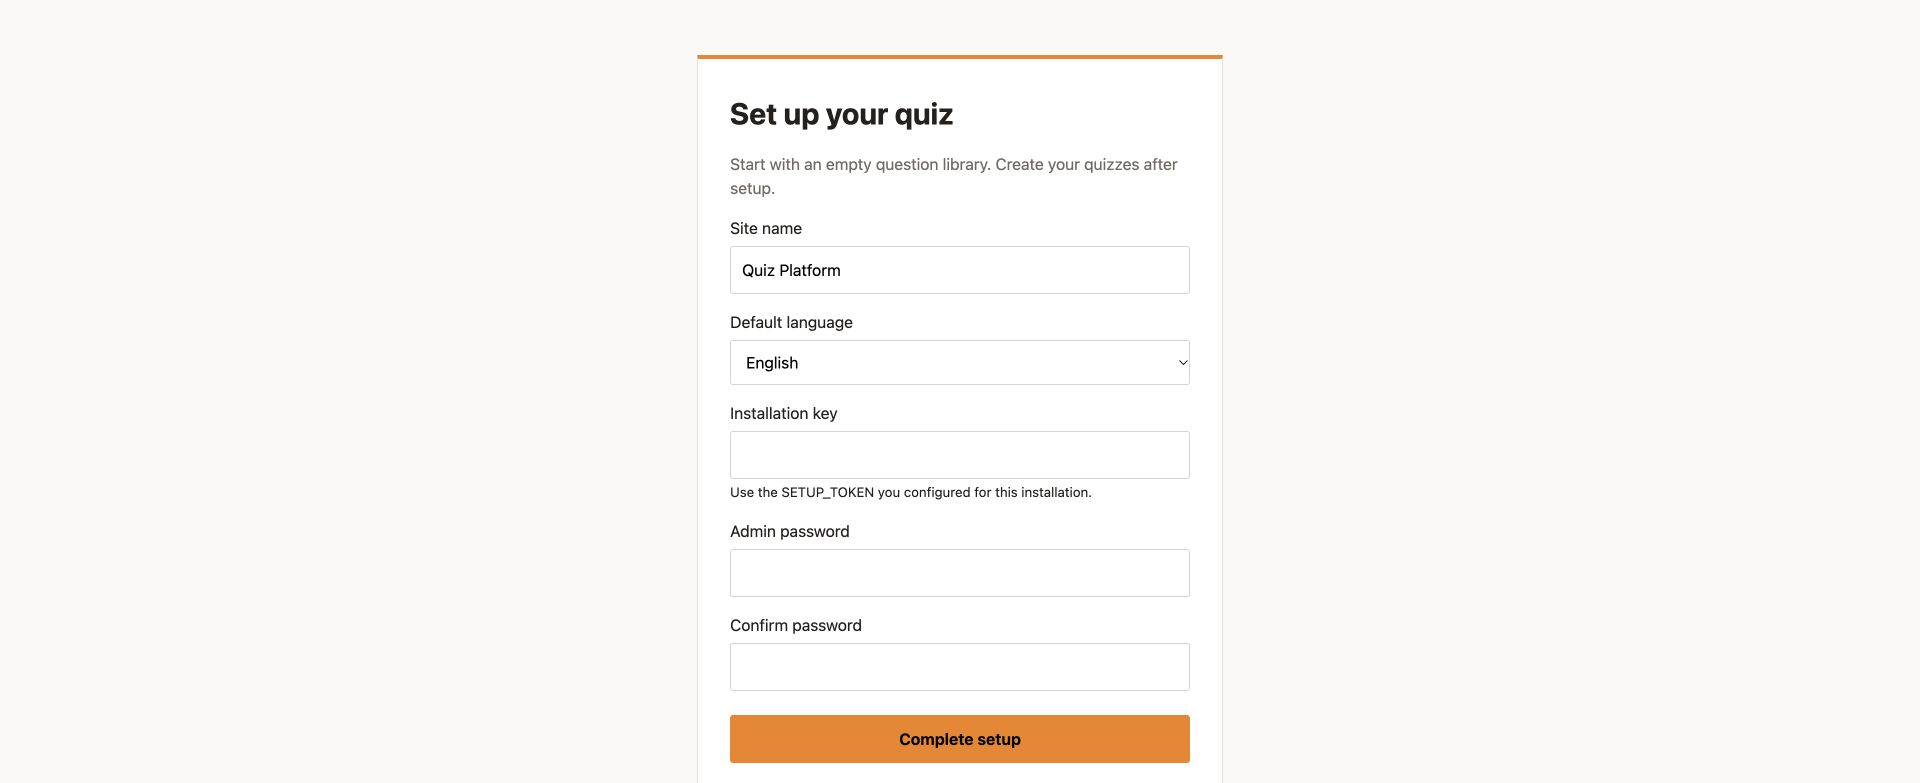
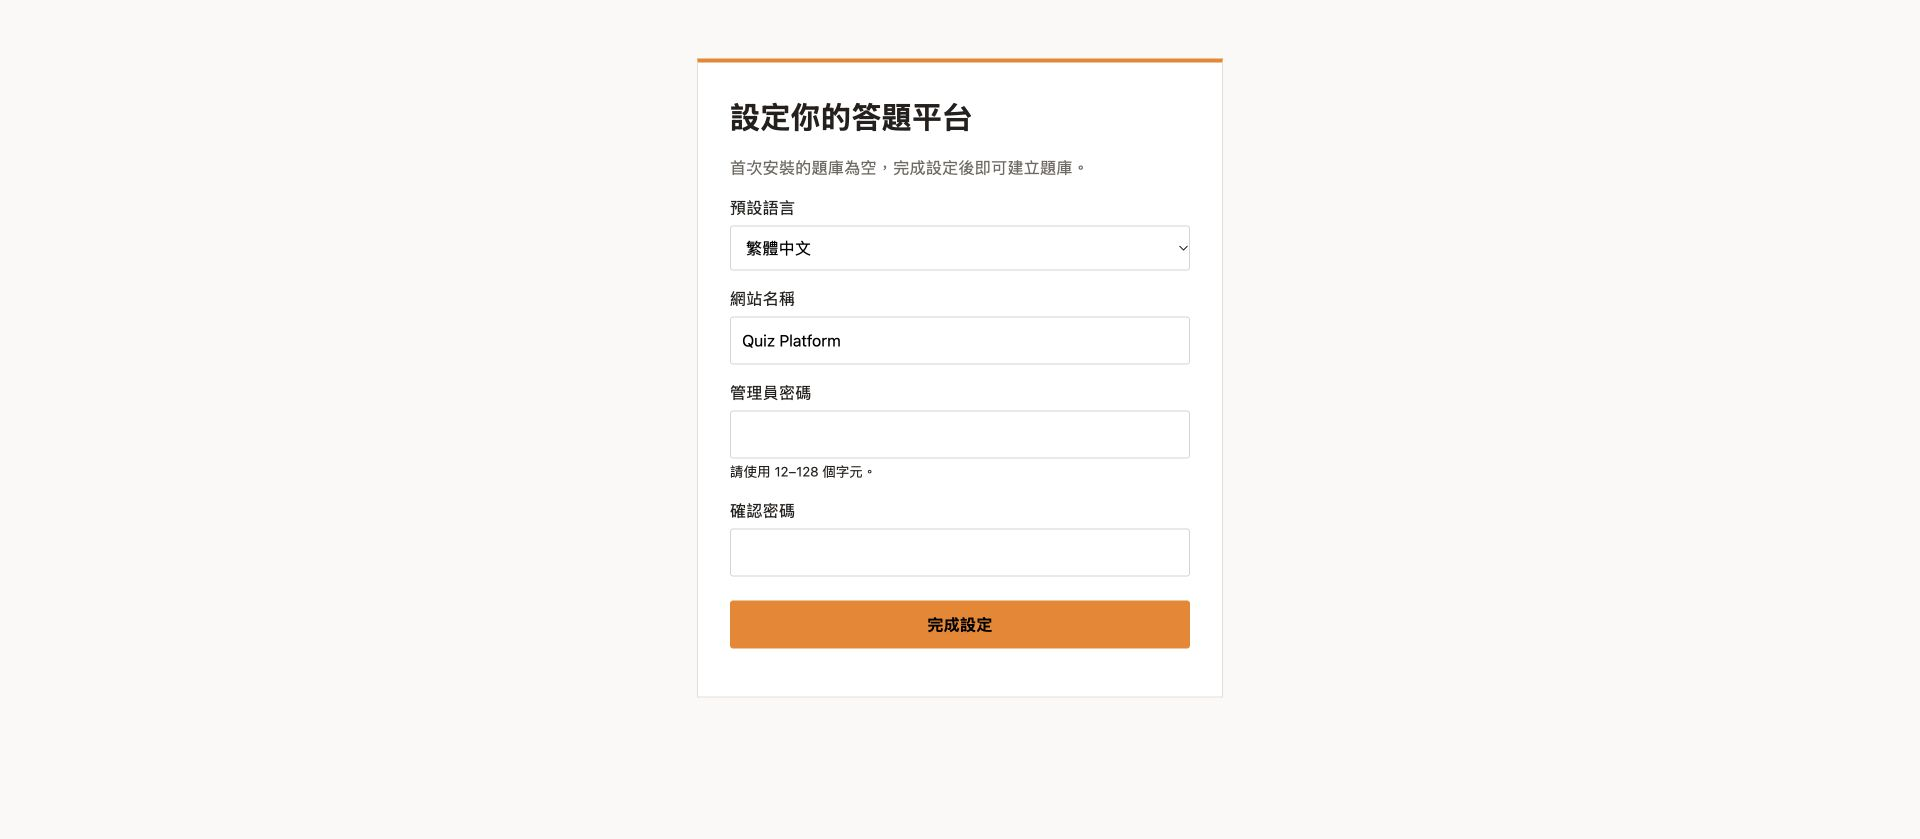
Add Traditional Chinese and simplify first-run setup

diff --git a/src/setup.html b/src/setup.html
@@ -1,5 +1,13 @@
-<!doctype html><html lang="en"><head><meta charset="utf-8"><meta name="viewport" content="width=device-width,initial-scale=1"><title>Set up Quiz Platform</title><style>body{margin:0;background:#faf9f7;color:#24201d;font:16px/1.5 system-ui}main{max-width:460px;margin:7vh auto;padding:32px;background:#fff;border:1px solid #e3dfd9;border-top:4px solid #f48120}h1{font-size:30px;margin:0}p{color:#706a63}label{display:block;margin:16px 0 6px}input,select,button{font:inherit;box-sizing:border-box;width:100%;padding:11px;border:1px solid #d9d4ce;border-radius:3px}button{margin-top:24px;background:#f48120;border-color:#f48120;cursor:pointer;font-weight:650}#status{color:#b42318}@media(max-width:520px){main{margin:24px 14px;padding:24px}}</style></head><body><main><h1>Set up your quiz</h1><p>Start with an empty question library. Create your quizzes after setup.</p><form id="setup"><label for="siteName">Site name</label><input id="siteName" name="siteName" maxlength="80" required value="Quiz Platform"><label for="language">Default language</label><select id="language" name="language"><option value="en">English</option><option value="zh-CN">简体中文</option></select><label for="setupKey">Installation key</label><input id="setupKey" name="setupKey" type="password" autocomplete="off" required><small>Use the SETUP_TOKEN you configured for this installation.</small><label for="password">Admin password</label><input id="password" name="password" type="password" autocomplete="new-password" minlength="12" maxlength="128" required><label for="confirm">Confirm password</label><input id="confirm" type="password" autocomplete="new-password" minlength="12" maxlength="128" required><button>Complete setup</button></form><p id="status" role="status"></p></main><script>
-const form=document.getElementById('setup'),status=document.getElementById('status');
-fetch('/api/site').then(r=>r.json()).then(data=>{if(data.configured){location.replace('/admin');return;}if(!data.setupKeyConfigured){status.textContent='The installer must configure the SETUP_TOKEN deployment secret first.';form.querySelector('button').disabled=true;}}).catch(()=>{status.textContent='Unable to reach the server.';});
-form.addEventListener('submit',async event=>{event.preventDefault();if(form.password.value!==document.getElementById('confirm').value){status.textContent='Passwords do not match.';return;}const button=form.querySelector('button');button.disabled=true;try{const response=await fetch('/api/setup',{method:'POST',headers:{'Content-Type':'application/json'},body:JSON.stringify(Object.fromEntries(new FormData(form)))});const data=await response.json();if(!response.ok)throw Error(data.error||'Setup failed');location.replace('/admin');}catch(error){status.textContent=error.message;button.disabled=false;}});
+<!doctype html><html lang="en"><head><meta charset="utf-8"><meta name="viewport" content="width=device-width,initial-scale=1"><title>Set up Quiz Platform</title><style>body{margin:0;background:#faf9f7;color:#24201d;font:16px/1.5 system-ui}main{max-width:460px;margin:7vh auto;padding:32px;background:#fff;border:1px solid #e3dfd9;border-top:4px solid #f48120}h1{font-size:30px;margin:0}p{color:#706a63}label{display:block;margin:16px 0 6px}input,select,button{font:inherit;box-sizing:border-box;width:100%;padding:11px;border:1px solid #d9d4ce;border-radius:3px}button{margin-top:24px;background:#f48120;border-color:#f48120;cursor:pointer;font-weight:650}#status{color:#b42318}@media(max-width:520px){main{margin:24px 14px;padding:24px}}</style></head><body><main><h1 data-copy="title">Set up your quiz</h1><p data-copy="intro">Start with an empty question library. Create your quizzes after setup.</p><form id="setup"><label for="language" data-copy="language">Default language</label><select id="language" name="language"><option value="en">English</option><option value="zh-CN">简体中文</option><option value="zh-TW">繁體中文</option></select><label for="siteName" data-copy="siteName">Site name</label><input id="siteName" name="siteName" maxlength="80" required value="Quiz Platform"><label for="password" data-copy="password">Admin password</label><input id="password" name="password" type="password" autocomplete="new-password" minlength="12" maxlength="128" required><small data-copy="passwordHelp">Use 12–128 characters.</small><label for="confirm" data-copy="confirm">Confirm password</label><input id="confirm" type="password" autocomplete="new-password" minlength="12" maxlength="128" required><button data-copy="complete">Complete setup</button></form><p id="status" role="status"></p></main><script>
+const form=document.getElementById('setup'),status=document.getElementById('status'),language=document.getElementById('language');
+const messages={
+ en:{title:'Set up your quiz',intro:'Start with an empty question library. Create your quizzes after setup.',language:'Default language',siteName:'Site name',password:'Admin password',passwordHelp:'Use 12–128 characters.',confirm:'Confirm password',complete:'Complete setup',mismatch:'Passwords do not match.',unavailable:'Unable to reach the server.',failed:'Setup failed. Please try again.',invalid:'Enter a site name (1–80 characters) and a password of 12–128 characters.',limited:'Too many attempts. Try again in 15 minutes.',completed:'Setup is already complete. Please sign in.'},
+ 'zh-CN':{title:'设置你的答题平台',intro:'首次安装的题库为空，完成设置后即可创建题库。',language:'默认语言',siteName:'网站名称',password:'管理员密码',passwordHelp:'请使用 12–128 个字符。',confirm:'确认密码',complete:'完成设置',mismatch:'两次输入的密码不一致。',unavailable:'无法连接服务器。',failed:'设置失败，请重试。',invalid:'请输入网站名称（1–80 个字符）和密码（12–128 个字符）。',limited:'尝试次数过多，请在 15 分钟后重试。',completed:'已完成设置，请登录。'},
+ 'zh-TW':{title:'設定你的答題平台',intro:'首次安裝的題庫為空，完成設定後即可建立題庫。',language:'預設語言',siteName:'網站名稱',password:'管理員密碼',passwordHelp:'請使用 12–128 個字元。',confirm:'確認密碼',complete:'完成設定',mismatch:'兩次輸入的密碼不一致。',unavailable:'無法連線至伺服器。',failed:'設定失敗，請重試。',invalid:'請輸入網站名稱（1–80 個字元）和密碼（12–128 個字元）。',limited:'嘗試次數過多，請在 15 分鐘後重試。',completed:'已完成設定，請登入。'}
+};
+const text=()=>messages[language.value];
+function localize(){document.documentElement.lang=language.value;document.title=text().title;document.querySelectorAll('[data-copy]').forEach(element=>element.textContent=text()[element.dataset.copy]);status.textContent='';}
+language.addEventListener('change',localize);
+fetch('/api/site').then(r=>{if(!r.ok)throw Error();return r.json();}).then(data=>{if(data.configured)location.replace('/admin');}).catch(()=>{status.textContent=text().unavailable;});
+form.addEventListener('submit',async event=>{event.preventDefault();if(form.password.value!==document.getElementById('confirm').value){status.textContent=text().mismatch;return;}const button=form.querySelector('button');button.disabled=true;try{const response=await fetch('/api/setup',{method:'POST',headers:{'Content-Type':'application/json'},body:JSON.stringify(Object.fromEntries(new FormData(form)))});if(!response.ok){status.textContent=response.status===409?text().completed:response.status===429?text().limited:response.status===400?text().invalid:text().failed;button.disabled=false;return;}location.replace('/admin');}catch(error){status.textContent=text().unavailable;button.disabled=false;}});
 </script></body></html>

diff --git a/src/admin.html b/src/admin.html
@@ -175,7 +175,7 @@
     <div class="lobby-right">
       <div style="text-align:center;margin-bottom:.75rem;">
         <span class="player-count" id="playerCount">0</span>
-        <span class="player-label"> players joined</span>
+        <span class="player-label" data-i18n="playersJoined"> players joined</span>
       </div>
       <div class="control-panel">
         <div class="panel-label">Select Quiz</div>
@@ -295,6 +295,7 @@ var T = {
   congratulations: 'Congratulations!', leaderboard: 'Leaderboard',
   saveResults: 'Save Results', saving: 'Saving...', saved: 'Saved!', saveFailed: 'Save failed',
   restart: 'Restart', resetGame: 'Reset Game',
+  adminTitle:'Quiz Platform Admin',loginPassword:'Enter admin password',login:'Login',invalidPassword:'Invalid password',loginFailed:'Login failed',loginLimited:'Too many attempts. Try again in 15 minutes.',
 };
 
 function showLoginForm() {
@@ -308,6 +309,10 @@ function showLoginForm() {
     '<br><button id="loginBtn" style="width:100%;margin-top:.75rem;padding:.7rem 2rem;border:1px solid #f48120;border-radius:3px;background:#f48120;color:#20160e;font-weight:750;cursor:pointer;">Login</button>' +
     '<p id="loginError" style="color:#b42318;margin-top:1rem;font-size:13px;display:none;">Invalid password</p>' +
     '</div>';
+  overlay.querySelector('h2').textContent=T.adminTitle;
+  overlay.querySelector('#tokenInput').placeholder=T.loginPassword;
+  overlay.querySelector('#loginBtn').textContent=T.login;
+  overlay.querySelector('#loginError').textContent=T.invalidPassword;
   document.body.appendChild(overlay);
   setTimeout(function(){
     var inp = document.getElementById('tokenInput');
@@ -322,7 +327,7 @@ async function doLogin() {
   try {
     var response=await fetch('/api/auth/login',{method:'POST',headers:{'Content-Type':'application/json'},body:JSON.stringify({password:input.value})});
     var data=await response.json();
-    if(!response.ok)throw Error(data.error||'Login failed');
+    if(!response.ok)throw Error(response.status===401?T.invalidPassword:response.status===429?T.loginLimited:T.loginFailed);
     sessionStorage.setItem('quiz_admin_token',data.token);location.reload();
   }catch(e){error.textContent=e.message;error.style.display='block';}
 }

diff --git a/src/player.html b/src/player.html
@@ -109,7 +109,7 @@
   <div id="joinScreen">
     <div class="join-box">
       <h1 id="activeQuizTitle">Quiz Platform</h1>
-      <p>Join the quiz. Answer on your phone. Follow the live leaderboard.</p>
+      <p data-i18n="joinIntro">Join the quiz. Answer on your phone. Follow the live leaderboard.</p>
 
       <input type="text" id="nicknameInput" placeholder="Choose a Cool Name" maxlength="20" autocomplete="off">
       <button id="joinBtn" onclick="joinGame()" data-i18n="join">Join Game</button>

diff --git a/cloudflare.config.ts b/cloudflare.config.ts
@@ -12,7 +12,6 @@ export default defineConfig({
       QUIZ_DB: bindings.d1({ name: "quiz-platform-db" }),
       QUIZ_ROOM: bindings.durableObject({ worker: "quiz-platform", exportName: "QuizRoom" }),
       REACTION_ROOM: bindings.durableObject({ worker: "quiz-platform", exportName: "ReactionRoom" }),
-      SETUP_TOKEN: bindings.secret(),
     },
     exports: {
       QuizRoom: exports.durableObject({ storage: "sqlite" }),

diff --git a/src/index.ts b/src/index.ts
@@ -17,7 +17,6 @@ interface Env {
   QUIZ_DB: D1Database;
   QUIZ_ROOM: DurableObjectNamespace;
   REACTION_ROOM: DurableObjectNamespace;
-  SETUP_TOKEN: string;
   ASSETS: Fetcher;
 }
 

diff --git a/README.md b/README.md
@@ -10,18 +10,16 @@ Requires Node.js 24+ and npm.
 
 ```sh
 npm ci
-npm run setup:local
 npm run dev
 ```
 
 Open the Local URL printed by the dev server. The first visit opens the setup wizard:
 
-1. Enter your site name and default language (English or Simplified Chinese).
-2. Copy the unique `SETUP_TOKEN` value from your local `.dev.vars` file into **Installation key**.
-3. Choose and confirm an admin password of at least 12 characters.
-4. Sign in at `/admin`, then use **Manage Quizzes** to create your first question library.
+1. Enter your site name and default language (English, 简体中文, or 繁體中文).
+2. Choose and confirm an admin password of at least 12 characters. No installation key is required.
+3. Sign in at `/admin`, then use **Manage Quizzes** to create your first question library.
 
-The schema is created automatically in the local D1 database. Setup saves site configuration only; it never inserts sample quizzes. `.dev.vars` and local database state are ignored by Git. Running `setup:local` again preserves your existing installation key.
+The schema is created automatically in the local D1 database. Setup saves site configuration only; it never inserts sample quizzes. Local database state is ignored by Git.
 
 The share link and QR code use the current site's address. Phones need to reach the deployed site; a localhost development URL is local to its computer.
 
@@ -31,13 +29,13 @@ The share link and QR code use the current site's address. Phones need to reach 
 
 This project uses the official `cf` CLI. It contains no account ID, custom domain, resource ID, or production binding copied from another installation.
 
-1. Run `npm ci` and `npm run setup:local`.
+1. Run `npm ci`.
 2. Choose unique Worker and database names in `cloudflare.config.ts`. Keep the two Durable Object bindings' `worker` names equal to the Worker name.
-3. Run `npx cf auth login`, then `npm run deploy`. The deploy script loads your private installation key from `.dev.vars` as the `SETUP_TOKEN` secret. `cf` provisions the declared D1/SQLite Durable Object resources when deploying to your account. Review the CLI's resource summary.
-4. Open the deployed URL and complete the same wizard with your own installation key. Each deployed database has its own first-run configuration.
+3. Run `npx cf auth login`, then `npm run deploy`. `cf` provisions the declared D1/SQLite Durable Object resources when deploying to your account. Review the CLI's resource summary.
+4. Open the deployed URL and complete the same wizard to create your admin password. Each deployed database has its own first-run configuration.
 5. Optionally add your custom domain in `cloudflare.config.ts` using `worker.domains`. No domain is hardcoded in the application.
 
-Keep `.dev.vars` private. There is no default admin password. The installation key only unlocks the one-time setup; it cannot sign in after setup. Completed setup cannot be overwritten by submitting the wizard again. An existing deployment's data is never cleared by this repository's schema.
+There is no default admin password. Complete the wizard immediately after first deployment; the first successful setup creates the administrator. Completed setup cannot be overwritten by submitting the wizard again. An existing deployment's data is never cleared by this repository's schema.
 
 Deployment reference: [Cloudflare CLI projects](https://developers.cloudflare.com/cf/projects/), [programmatic configuration](https://developers.cloudflare.com/cf/projects/cloudflare-config/).
 
@@ -68,7 +66,7 @@ npm run typecheck
 npm run build
 ```
 
-Tests cover empty installation, installation-key validation, setup races/locking, password storage, session creation/expiry/revocation, throttling and request origins. The local Workers/D1 integration was also checked for empty quizzes/history and question-management permissions.
+Tests cover empty installation, key-free setup and Traditional Chinese settings, setup races/locking, password storage, session creation/expiry/revocation, throttling and request origins. The local Workers/D1 integration was also checked for empty quizzes/history and question-management permissions.
 
 - `src/index.ts`: Worker routes and application pages
 - `src/auth.mjs`: installation, passwords and sessions
